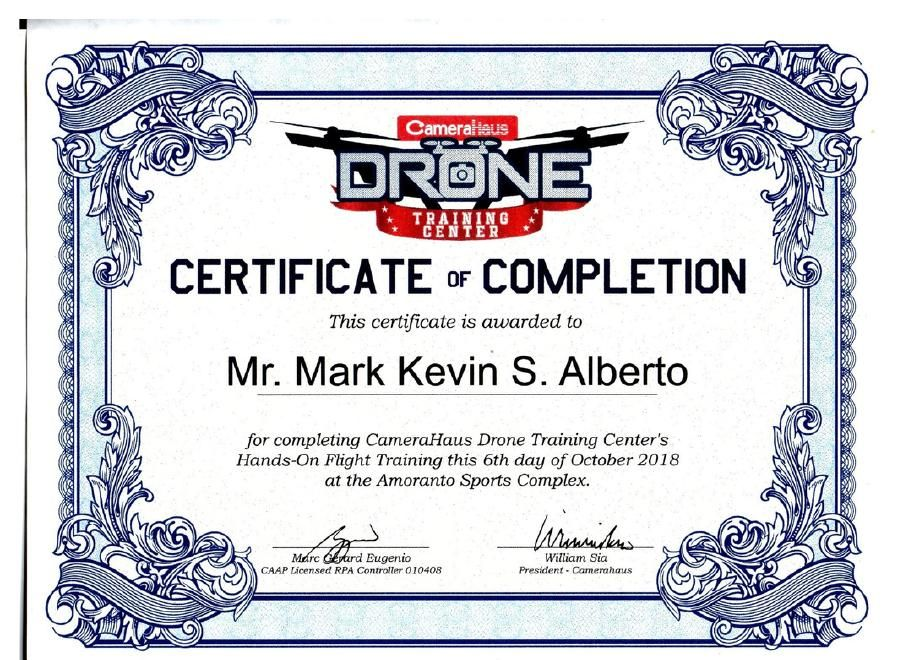
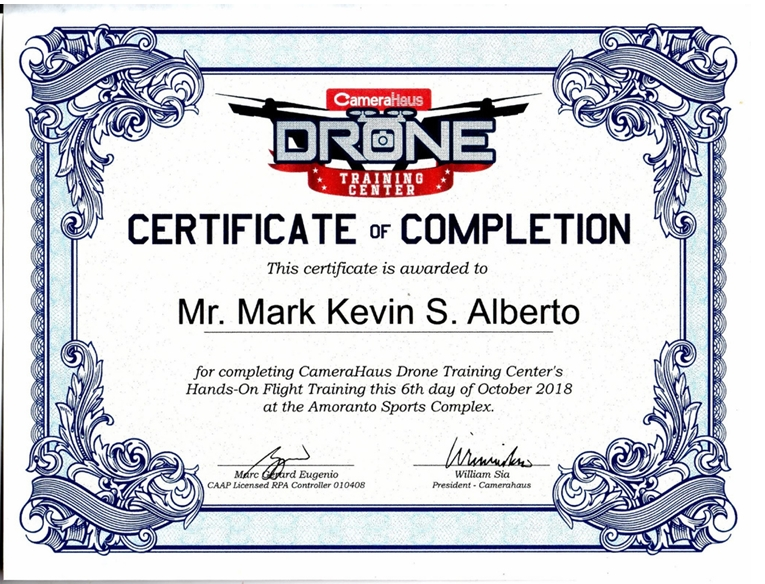
Show every certificate individually, using your own screenshots
Replaces the 9 consolidated entries with all 21 real certificates,
using the higher-quality screenshots you provided instead of the
PDF-page crops. Grouped into three sections: individual
certifications and training, What The Hack Summit 2016 (7 sessions),
and DataHack 2018 (6 sessions). Also adds the new CEdNet 6th National
Convention certificate from September 2026.

diff --git a/src/certData.js b/src/certData.js
@@ -4,81 +4,102 @@ import googleAiK12 from "./assets/certs/google-ai-k12.jpg";
 import courseraTechSupport from "./assets/certs/coursera-tech-support.jpg";
 import tesda from "./assets/certs/tesda.jpg";
 import drone from "./assets/certs/drone.jpg";
-import whatTheHack from "./assets/certs/what-the-hack.jpg";
-import datahack from "./assets/certs/datahack.jpg";
 import jcsgoAppreciation from "./assets/certs/jcsgo-appreciation.jpg";
+import cednetConvention from "./assets/certs/cednet-convention.jpg";
 
-export const certificates = [
+import wthSummit from "./assets/certs/wth-summit.jpg";
+import wthEthicalHacking from "./assets/certs/wth-ethical-hacking.jpg";
+import wthVulnerabilities from "./assets/certs/wth-vulnerabilities.jpg";
+import wthFutureThreats from "./assets/certs/wth-future-threats.jpg";
+import wthCyberLaw from "./assets/certs/wth-cyber-law.jpg";
+import wthCollaboration from "./assets/certs/wth-collaboration.jpg";
+import wthNewTechnologies from "./assets/certs/wth-new-technologies.jpg";
+
+import datahackCipm from "./assets/certs/datahack-cipm.jpg";
+import datahackTrends from "./assets/certs/datahack-trends.jpg";
+import datahackCertifications from "./assets/certs/datahack-certifications.jpg";
+import datahackHotTopics from "./assets/certs/datahack-hot-topics.jpg";
+import datahackTop5Privacy from "./assets/certs/datahack-top5-privacy.jpg";
+import datahackCompliance from "./assets/certs/datahack-compliance.jpg";
+
+export const certGroups = [
   {
-    title: "Google Certified Educator, Level 2",
-    issuer: "Google for Education",
-    date: "Issued May 2020 · valid through May 2023",
-    category: "Education & AI",
-    note: "Advanced knowledge, skills, and competencies to implement and integrate Google for Education tools.",
-    image: googleEducatorL2,
+    id: "individual",
+    title: "Certifications and training",
+    meta: null,
+    category: "Individual",
+    items: [
+      {
+        title: "Google Certified Educator, Level 2",
+        sub: "Google for Education · issued May 2020, valid through May 2023",
+        image: googleEducatorL2,
+      },
+      {
+        title: "Google Certified Educator, Level 1",
+        sub: "Google for Education · issued May 2020, valid through May 2023",
+        image: googleEducatorL1,
+      },
+      {
+        title: "Google AI for K12 Educators",
+        sub: "Google · completed July 2025, score 94",
+        image: googleAiK12,
+      },
+      {
+        title: "Technical Support Fundamentals",
+        sub: "Google, via Coursera · October 2022",
+        image: courseraTechSupport,
+      },
+      {
+        title: "National Certificate II, Computer Hardware Servicing",
+        sub: "TESDA · issued October 2012",
+        image: tesda,
+      },
+      {
+        title: "Drone Hands-On Flight Training",
+        sub: "CameraHaus Drone Training Center · October 2018",
+        image: drone,
+      },
+      {
+        title: "Faculty Development Talk: Data Management",
+        sub: "JCSGO Christian Academy · December 2018",
+        image: jcsgoAppreciation,
+      },
+      {
+        title: "6th National Convention, Championing Godliness 2.0",
+        sub: "Christian Educators' Network International · September 2026",
+        image: cednetConvention,
+      },
+    ],
   },
   {
-    title: "Google Certified Educator, Level 1",
-    issuer: "Google for Education",
-    date: "Issued May 2020 · valid through May 2023",
-    category: "Education & AI",
-    note: "Foundational competencies for using Google for Education tools in the classroom.",
-    image: googleEducatorL1,
-  },
-  {
-    title: "Google AI for K12 Educators",
-    issuer: "Google",
-    date: "Completed July 2025 · score 94",
-    category: "Education & AI",
-    note: "Using Google AI tools to boost productivity as an education professional.",
-    image: googleAiK12,
-  },
-  {
-    title: "Technical Support Fundamentals",
-    issuer: "Google, via Coursera",
-    date: "October 2022",
-    category: "Education & AI",
-    note: "Part of the Google IT Support track.",
-    image: courseraTechSupport,
-  },
-  {
-    title: "National Certificate II, Computer Hardware Servicing",
-    issuer: "TESDA",
-    date: "Issued October 2012",
-    category: "Hardware & Networking",
-    note: "Philippine TVET qualification covering workstation builds, wiring, and network configuration and troubleshooting.",
-    image: tesda,
-  },
-  {
-    title: "Drone Hands-On Flight Training",
-    issuer: "CameraHaus Drone Training Center",
-    date: "October 2018",
-    category: "Hardware & Networking",
-    note: "Completed at Amoranto Sports Complex under a CAAP-licensed RPA controller.",
-    image: drone,
-  },
-  {
+    id: "wth",
     title: "What The Hack Summit 2016",
-    issuer: "GlobalKnowledge PH / CompTIA",
-    date: "June 2016, SMX MOA",
+    meta: "GlobalKnowledge PH / CompTIA · June 3-4, 2016, SMX MOA, Pasay City",
     category: "Security",
-    note: "Two-day track: ethical hacking, vulnerabilities in critical infrastructure, future threats, cyber law, and collaboration. Shown: the general summit attendance certificate, one of six from that track.",
-    image: whatTheHack,
+    items: [
+      { title: "Summit attendance", image: wthSummit },
+      { title: "2-Day Ethical Hacking Bootcamp", image: wthEthicalHacking },
+      { title: "Vulnerabilities in Critical Infrastructure", image: wthVulnerabilities },
+      { title: "Future Threats & Solutions", image: wthFutureThreats },
+      { title: "Cyber and the Law", image: wthCyberLaw },
+      { title: "Creating Collaboration", image: wthCollaboration },
+      { title: "New Technologies", image: wthNewTechnologies },
+    ],
   },
   {
+    id: "datahack",
     title: "DataHack 2018: Data Privacy & Cybersecurity Seminar",
-    issuer: "GlobalKnowledge PH",
-    date: "December 2018, The New Camelot Hotel",
+    meta: "GlobalKnowledge PH · December 8, 2018, The New Camelot Hotel",
     category: "Security",
-    note: "CIPM overview, current cybersecurity trends, and data privacy compliance. Shown: the CIPM overview session, one of six from that seminar.",
-    image: datahack,
-  },
-  {
-    title: "Faculty Development Talk: Data Management",
-    issuer: "JCSGO Christian Academy",
-    date: "December 2018",
-    category: "Recognition",
-    note: "Certificate of Appreciation for a talk on data management and basic computer handling.",
-    image: jcsgoAppreciation,
+    items: [
+      { title: "Overview of CIPM Certification", image: datahackCipm },
+      { title: "Current Trends in Cybersecurity", image: datahackTrends },
+      { title: "Cybersecurity Certifications", image: datahackCertifications },
+      { title: "Hot Topics in Cybersecurity", image: datahackHotTopics },
+      { title: "Top 5 Concerns in Data Privacy", image: datahackTop5Privacy },
+      { title: "Data Privacy Issues and Compliance", image: datahackCompliance },
+    ],
   },
 ];
+
+export const certificateCount = certGroups.reduce((n, g) => n + g.items.length, 0);

diff --git a/src/CertificatesPage.jsx b/src/CertificatesPage.jsx
@@ -1,21 +1,48 @@
-import { GraduationCap, HardDrives, ShieldCheck, Medal, ArrowsOut } from "@phosphor-icons/react";
+import { GraduationCap, ShieldCheck, ArrowsOut } from "@phosphor-icons/react";
 import Nav from "./components/Nav";
 import CTAFooter from "./components/CTAFooter";
-import { certificates } from "./certData";
+import { certGroups, certificateCount } from "./certData";
 
 const categoryIcon = {
-  "Education & AI": GraduationCap,
-  "Hardware & Networking": HardDrives,
+  Individual: GraduationCap,
   Security: ShieldCheck,
-  Recognition: Medal,
 };
+
+function CertCard({ item }) {
+  return (
+    <div className="flex flex-col overflow-hidden rounded-2xl border border-white/10 bg-ink-850">
+      <a
+        href={item.image}
+        target="_blank"
+        rel="noopener noreferrer"
+        className="group relative flex items-center justify-center bg-paper-100 p-3"
+      >
+        <img
+          src={item.image}
+          alt={`${item.title} certificate`}
+          className="h-44 w-full rounded object-contain object-center shadow-[0_8px_24px_rgba(0,0,0,0.25)]"
+        />
+        <span className="absolute inset-0 flex items-center justify-center bg-ink-950/0 opacity-0 transition group-hover:bg-ink-950/30 group-hover:opacity-100">
+          <span className="flex items-center gap-1.5 rounded-full bg-ink-950/80 px-3 py-1.5 font-mono-label text-[11px] text-white">
+            <ArrowsOut size={13} weight="bold" />
+            View full size
+          </span>
+        </span>
+      </a>
+      <div className="flex flex-1 flex-col gap-1.5 p-4">
+        <h4 className="text-sm font-bold leading-snug text-white">{item.title}</h4>
+        {item.sub && <p className="font-mono-label text-[11px] text-white/40">{item.sub}</p>}
+      </div>
+    </div>
+  );
+}
 
 export default function CertificatesPage() {
   return (
     <main className="w-full max-w-full overflow-x-hidden bg-ink-950">
       <Nav />
 
-      <section id="top" className="relative overflow-hidden px-4 pt-40 pb-20 md:pt-48">
+      <section id="top" className="relative overflow-hidden px-4 pt-40 pb-16 md:pt-48">
         <div
           aria-hidden
           className="pointer-events-none absolute -top-40 left-1/2 h-[500px] w-[800px] -translate-x-1/2 rounded-full bg-amber/10 blur-[140px]"
@@ -25,59 +52,38 @@ export default function CertificatesPage() {
             Certificates and training.
           </h1>
           <p className="mt-6 max-w-xl text-lg text-white/60">
-            Nine, from a TESDA hardware certification in 2012 to a Google AI course in 2025.
-            Some have since expired; they still happened. Click any certificate to open it full
+            {certificateCount}, from a TESDA hardware certification in 2012 to a Christian
+            Educators' Network convention this September. Click any certificate to open it full
             size.
           </p>
         </div>
       </section>
 
-      <section className="px-4 pb-28 md:pb-36">
-        <div className="mx-auto grid max-w-5xl gap-6 sm:grid-cols-2">
-          {certificates.map((c) => {
-            const Icon = categoryIcon[c.category];
-            return (
-              <div
-                key={c.title}
-                className="flex flex-col overflow-hidden rounded-2xl border border-white/10 bg-ink-850"
-              >
-                <a
-                  href={c.image}
-                  target="_blank"
-                  rel="noopener noreferrer"
-                  className="group relative flex items-center justify-center bg-paper-100 p-4"
-                >
-                  <img
-                    src={c.image}
-                    alt={`${c.title} certificate`}
-                    className="h-56 w-full rounded object-contain object-center shadow-[0_8px_24px_rgba(0,0,0,0.25)]"
-                  />
-                  <span className="absolute inset-0 flex items-center justify-center bg-ink-950/0 opacity-0 transition group-hover:bg-ink-950/30 group-hover:opacity-100">
-                    <span className="flex items-center gap-1.5 rounded-full bg-ink-950/80 px-3 py-1.5 font-mono-label text-[11px] text-white">
-                      <ArrowsOut size={13} weight="bold" />
-                      View full size
-                    </span>
-                  </span>
-                </a>
-
-                <div className="flex flex-1 flex-col gap-3 p-6">
-                  <div className="flex items-start justify-between gap-3">
-                    <Icon size={22} weight="duotone" className="text-amber" />
-                    <span className="rounded-full border border-white/15 px-3 py-1 font-mono-label text-[10px] uppercase tracking-wide text-white/45">
-                      {c.category}
-                    </span>
-                  </div>
-                  <h3 className="text-lg font-bold text-white">{c.title}</h3>
-                  <p className="font-mono-label text-xs text-white/40">
-                    {c.issuer} &middot; {c.date}
-                  </p>
-                  <p className="text-sm text-white/60">{c.note}</p>
+      {certGroups.map((group) => {
+        const Icon = categoryIcon[group.category];
+        return (
+          <section key={group.id} className="px-4 pb-16 md:pb-20">
+            <div className="mx-auto max-w-5xl">
+              <div className="mb-6 flex items-start gap-3 border-b border-white/10 pb-5">
+                <Icon size={22} weight="duotone" className="mt-0.5 shrink-0 text-amber" />
+                <div>
+                  <h2 className="text-xl font-bold text-white">{group.title}</h2>
+                  {group.meta && (
+                    <p className="mt-1 font-mono-label text-xs text-white/40">{group.meta}</p>
+                  )}
                 </div>
               </div>
-            );
-          })}
-        </div>
-      </section>
+              <div className="grid gap-5 sm:grid-cols-2 lg:grid-cols-3">
+                {group.items.map((item) => (
+                  <CertCard key={item.title} item={item} />
+                ))}
+              </div>
+            </div>
+          </section>
+        );
+      })}
+
+      <div className="pb-12" />
 
       <CTAFooter />
     </main>

diff --git a/src/App.jsx b/src/App.jsx
@@ -44,9 +44,10 @@ export default function App() {
               href={`${import.meta.env.BASE_URL}certificates.html`}
               className="border-b border-white/30 text-white transition hover:border-amber hover:text-amber"
             >
-              nine certificates
+              21 certificates
             </a>
-            , from a 2012 TESDA hardware cert to a 2025 Google AI course.
+            , from a 2012 TESDA hardware cert to two cybersecurity summits and a national
+            convention this year.
           </p>
         </div>
         <TechMarquee />
